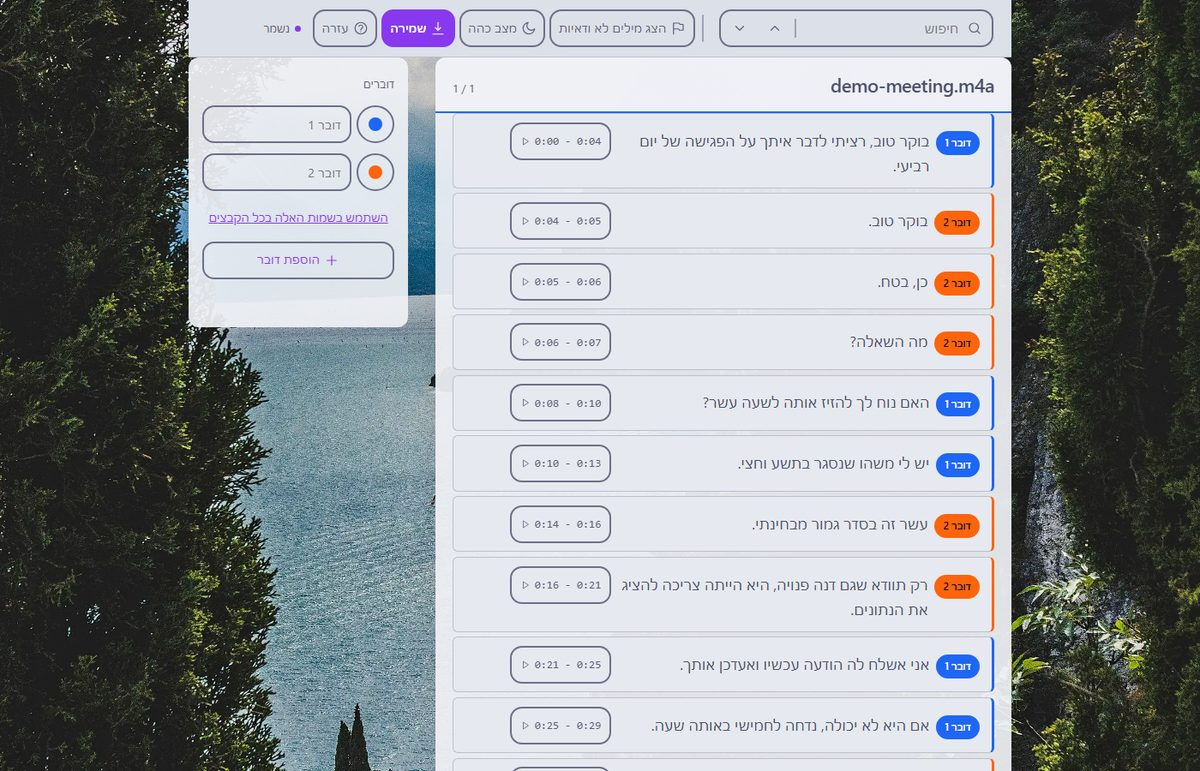
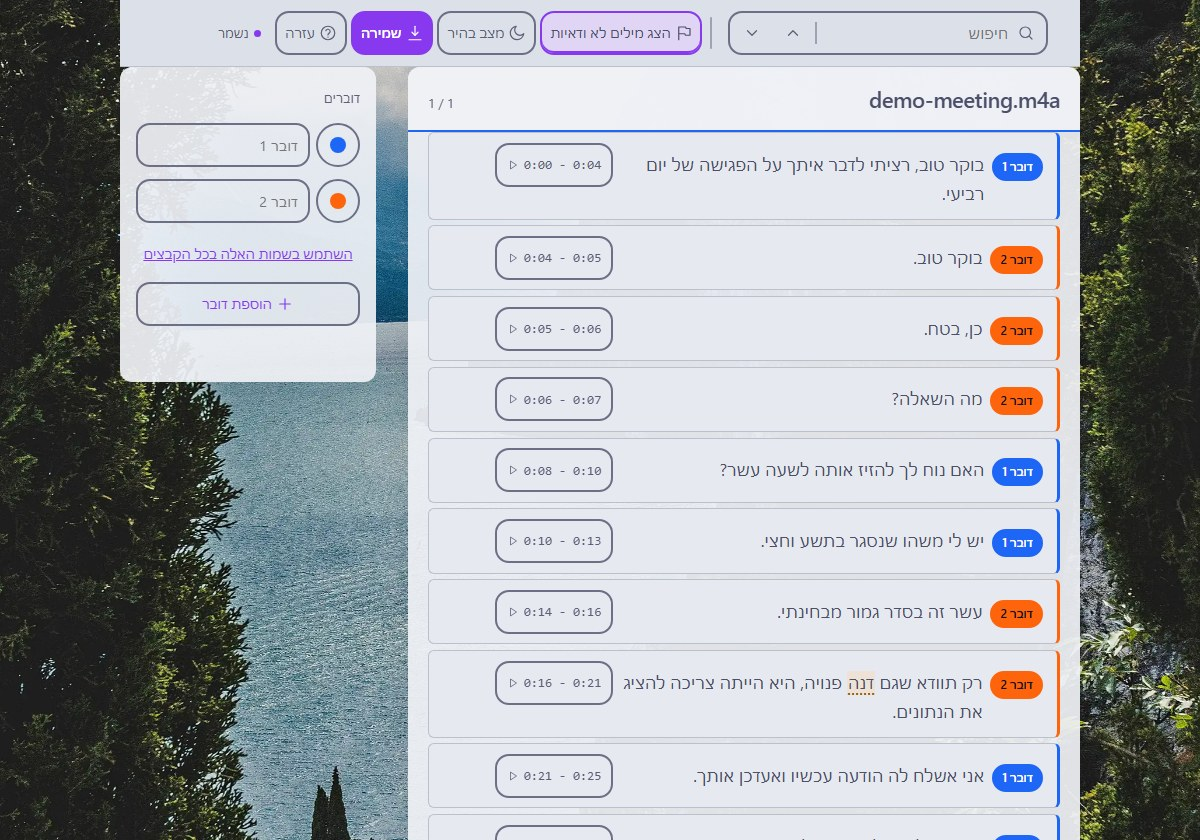
Document the terms editor and click-to-fix
README and USING_THE_TRANSCRIPT: terms are added from "Custom terms" on
the model screen instead of a hand-made file "next to where you run the
app" (it is now always the app's folder); uncertain words are
highlighted by default and fixed from a menu on the word. The guide
also says what the pass matches now (two-word terms, attached
punctuation, the known-word rule) and what to expect, from the real-
recording measurement: little on Ivrit Turbo, six names fixed and none
broken on smaller models.

hebrew_terms.example.txt points to the editor first.
ARCHITECTURE lists term_store.py and terms_dialog.py, and tools/ holds
three scripts, not two. TESTING describes compare_term_correction.py.

Screenshots: the model step re-shot from the real app (real estimates,
a 5.8-minute call) with the new button; the transcript re-shot from the
demo, now highlighted by default; and a new one of the fix menu open.

render_demo_transcript.py no longer saves its --lang into the app's
settings, which changed the language the app itself opened in.

diff --git a/tools/render_demo_transcript.py b/tools/render_demo_transcript.py
@@ -82,7 +82,9 @@ def main() -> int:
     parser.add_argument("--lang", default="he", choices=["he", "en"])
     args = parser.parse_args()
 
-    i18n.set_language(args.lang)
+    # save=False: rendering a demo must not change the language the app
+    # itself opens in - set_language() persists to QSettings by default.
+    i18n.set_language(args.lang, save=False)
     html = render_html(
         [build_document()],
         speaker_label=i18n.t("speaker_label"),

diff --git a/docs/USING_THE_TRANSCRIPT.md b/docs/USING_THE_TRANSCRIPT.md
@@ -47,7 +47,7 @@ Open it in a browser and:
 
 - **Edit any turn** by clicking into it and typing. No edit mode, no save button.
 - **Name, recolour and reassign speakers from the sidebar.** Type a real name once and every "דובר 1" in that recording becomes it. Names stay per file by default, since speaker 1 in one recording is rarely the same person as speaker 1 in another; one button copies them across when it really is the same meeting. If diarization missed someone or merged two people, "+ הוספת דובר" adds a speaker with its own colour from a verified eight-colour palette, and clicking any turn's speaker label opens a menu to move that turn to a different speaker.
-- **See what the model doubted.** Whisper records a confidence for every word, and the toolbar toggle shades the ones that fell below the same threshold the Hebrew term-correction pass uses. This is the difference between re-reading a whole transcript and looking at the twenty words that need it. Editing a turn clears its shading, because the confidence no longer describes what is now there.
+- **Fix what the model doubted.** Whisper records a confidence for every word, and the ones below the threshold the Hebrew term-correction pass uses are highlighted as soon as the transcript opens (the toolbar toggle turns that off, and the choice sticks). This is the difference between re-reading a whole transcript and looking at the twenty words that need it. Click one - or Tab to it and press Enter - and a menu opens right under it: the terms from your list it may have been (pick with 1-3), a field for the right word, or "keep as is". A word the app already corrected from your term list has a solid underline instead, and its menu offers the original back. A pick changes only that word, so the card's other highlights stay; typing in a card turns it into ordinary edited text and clears its highlights, because the confidence no longer describes what is now there.
 - **Listen exactly to a turn.** The transcript is written next to its audio, so clicking a timestamp seeks, plays, and pauses again at the turn's end - and the turn being spoken is highlighted while it plays. The player has its own seek bar and a "current / total" readout; dragging the seek bar past a turn's end plays on rather than snapping back, the same way pressing play/pause already overrides a turn's bounds. If the audio is moved away or is in a container the browser can't play, that recording's timestamps quietly become plain labels - the rest of the batch is unaffected.
 - **Search** across every file with `/`, stepping through matches with Enter. Matching ignores nikud and treats final letter forms as the same letter.
 - **Copy it out, and edit from either side.** Every section has an always-visible plain-text panel with checkboxes for timestamps and speaker names, plus a per-turn copy button. It is not read-only: each row is itself editable and tied to its card, so a fix typed into the plain-text panel updates the card above it, and vice versa - there is nothing to keep in sync by hand. Every copy - a turn or the whole panel - confirms itself with a brief toast.
@@ -98,16 +98,28 @@ If speaker identification fails for any reason, the transcript is still saved - 
 ## Correcting names and jargon
 
 Words the model reliably mangles - people, places, organisations,
-professional vocabulary - can be listed in a `hebrew_terms.txt` file next to
-where you run the app. Copy
-[`hebrew_terms.example.txt`](../hebrew_terms.example.txt) to get started.
-Without that file, nothing happens.
+professional vocabulary - go in **Custom terms** on the model screen: type a
+term and press Enter. The list is saved as `hebrew_terms.txt` in the app's
+folder (hover the button for the exact path) and stays editable by hand;
+[`hebrew_terms.example.txt`](../hebrew_terms.example.txt) explains the
+format. With no terms, nothing happens.
 
 Only words the model itself flagged as uncertain are considered, and only
 your listed terms are candidates. Matching is aware of how Hebrew is actually
-misheard (א/ע, כ/ק, ט/ת) and of prefixes, so listing `ירושלים` also covers
-`בירושלים`. Every substitution is written to `speech_to_text.log` so you can
-check it.
+misheard (א/ע, כ/ק, ט/ת), of prefixes - listing `ירושלים` also covers
+`בירושלים` - and of punctuation attached to a word. A two-word term such as
+`יובל קוגן` is matched against two words together, and only the doubted one
+may differ. A word the same recording shows the model writing confidently
+elsewhere is never replaced: otherwise a list holding `ענבל` turns `אבל`
+("but") into the name. Every substitution is written to `speech_to_text.log`,
+and the transcript's fix menu can restore any of them.
+
+What to expect, measured on three real recordings with human transcripts:
+Ivrit Turbo, the default, already wrote almost every name right, and the few
+it missed it missed confidently - out of reach of any correction afterwards.
+On the smaller models, whose mistakes are more often uncertain ones, the same
+list fixed six names and broke no correct word.
+`tests/eval/compare_term_correction.py` reruns the measurement.
 
 This is not a spell checker, and adding ordinary vocabulary makes it worse
 rather than better - see the comments in the example file for why.

diff --git a/docs/ARCHITECTURE.md b/docs/ARCHITECTURE.md
@@ -42,7 +42,7 @@ src/                            on sys.path at run time; nothing is installed in
   config/                       grouped by what each constant is FOR, not where it was declared
     application.py                metadata, window geometry, dependency list
     models.py                     the MODELS table and the default
-    paths.py                      model-download root, output filenames, supported formats
+    paths.py                      absolute paths (model caches, log, term list), output names
     transcription.py              language, beam size, compute type, speed factors
     diarization.py                tuned constants, each with the AMI measurement behind it
   core/                         everything that runs in the worker process. No Qt, ever.
@@ -57,6 +57,7 @@ src/                            on sys.path at run time; nothing is installed in
     diarization_powerset.py       opt-in second engine, decodes the model itself
     powerset_decode.py            pure-numpy powerset decode maths
     hebrew_corrections.py         term-list correction of low-confidence Hebrew words
+    term_store.py                 reads the term list; line-preserving add/remove for the GUI
     hebrew_text.py                Hebrew normalization and BiDi isolation
     log_bidi.py                   visual-order console logging for Hebrew log lines
     keep_awake.py                 keeps the machine awake for the length of a run
@@ -69,6 +70,7 @@ src/                            on sys.path at run time; nothing is installed in
     presenters/                   decisions, with NO Qt import - see below
     main_window.py                the 3-step wizard shell, navigation, thread wiring
     steps/                        file select, model select, transcription
+    terms_dialog.py               the Custom terms editor, opened from the model step
     widgets.py                    DropZone, IconTextButton, and the make_label factory
     theme.py                      Catppuccin palette + QSS builders
     checkbox_style.py             QProxyStyle that paints the checkbox indicator
@@ -82,8 +84,10 @@ src/                            on sys.path at run time; nothing is installed in
 
 Outside `src/`: `tests/` holds the pytest suite plus `tests/js/` (jsdom) and
 `tests/eval/` (dev-only harnesses - see [TESTING.md](TESTING.md)); `tools/`
-holds two maintenance scripts (`build_vistas.py` downscales the transcript's
-backdrop photos, `doc_density.py` measures prose-vs-code ratio per file); and
+holds three maintenance scripts (`build_vistas.py` downscales the transcript's
+backdrop photos, `doc_density.py` measures prose-vs-code ratio per file,
+`render_demo_transcript.py` renders the README's demo page from invented
+dialogue); and
 `docs/` holds this file, `TESTING.md`, the architecture diagram's editable
 `.drawio` source and rendered `.jpg`, and `transcript-manual-checks.md` (the
 manual QA checklist for what neither test suite can cover - see TESTING.md).

diff --git a/docs/TESTING.md b/docs/TESTING.md
@@ -95,7 +95,8 @@ shipping a change to `core/assets/`.
 ## Deliberately out of scope
 
 - **`tests/eval/*` are developer scripts, not tests.** `compare_models.py`,
-  `compare_transcription.py` and `compare_diarization.py` are argparse CLIs that
+  `compare_transcription.py`, `compare_diarization.py` and
+  `compare_term_correction.py` are argparse CLIs that
   need real audio, real models and minutes to hours of wall clock. pytest does
   not collect them (no `test_*` functions). The thin `test_compare_models.py` /
   `test_diarization_metrics.py` / `test_hebrew_metrics.py` wrappers exist only to
@@ -126,6 +127,15 @@ shipping a change to `core/assets/`.
   minutes of transcript and pass it with `--reference` to get a real word
   error rate, computed with Hebrew-appropriate normalization (nikud, final
   letters, and the app's own timestamps and speaker labels are all discounted).
+
+  `compare_term_correction.py` measures the Hebrew term pass against the
+  human transcripts of three local recordings: `transcribe` caches each
+  recording's words once (per model, `--model`), and `score --terms FILE`
+  reports WER before/after and calls every rewritten word fixed, broke or
+  neither. It scores whatever `core/` is first on `PYTHONPATH`, so an older
+  commit checked out with `git worktree` is compared on identical words.
+  Freeze the term list before reading any output, or the list gets tuned to
+  the errors. Its module docstring records what has been measured so far.
 - **No test downloads a model or touches the network.** Every heavy dependency
   is mocked. `test_js_behaviour.py` needs Node and skips - never fails - when
   `node_modules/` is absent.

diff --git a/README.md b/README.md
@@ -26,6 +26,7 @@ file you can email.
 | ---------- | ------------------------------------------------------------------ |
 | Dark       | ![Transcript document, dark](docs/screenshot-transcript-dark.jpg)   |
 | Light      | ![Transcript document, light](docs/screenshot-transcript-light.jpg) |
+| Fixing a word | ![An uncertain word's fix menu, open below it](docs/screenshot-transcript-fix.jpg) |
 
 The dialogue in those two is invented, and no transcription ran to produce
 them - `tools/render_demo_transcript.py` hands a written-out conversation
@@ -145,12 +146,13 @@ your browser's local storage, not back to the file on disk.** Press
 baked in - that's the one to keep or send to someone else.
 
 Speaker identification is on by default (set how many speakers on the model
-screen), and a `hebrew_terms.txt` file next to the app corrects names and
-jargon the model gets wrong - copy
-[`hebrew_terms.example.txt`](hebrew_terms.example.txt) to get started.
+screen). Names, places and jargon the model gets wrong go in **Custom terms**
+on the same screen; the app corrects them where the model was unsure. In the
+transcript, every uncertain word is highlighted - click one to pick a term,
+type the right word, or keep it.
 
 See **[docs/USING_THE_TRANSCRIPT.md](docs/USING_THE_TRANSCRIPT.md)** for the
-full guide: editing, speaker renaming, confidence shading, audio playback,
+full guide: editing, speaker renaming, fixing uncertain words, audio playback,
 and exactly how speaker identification and term correction each work.
 
 ## Development
